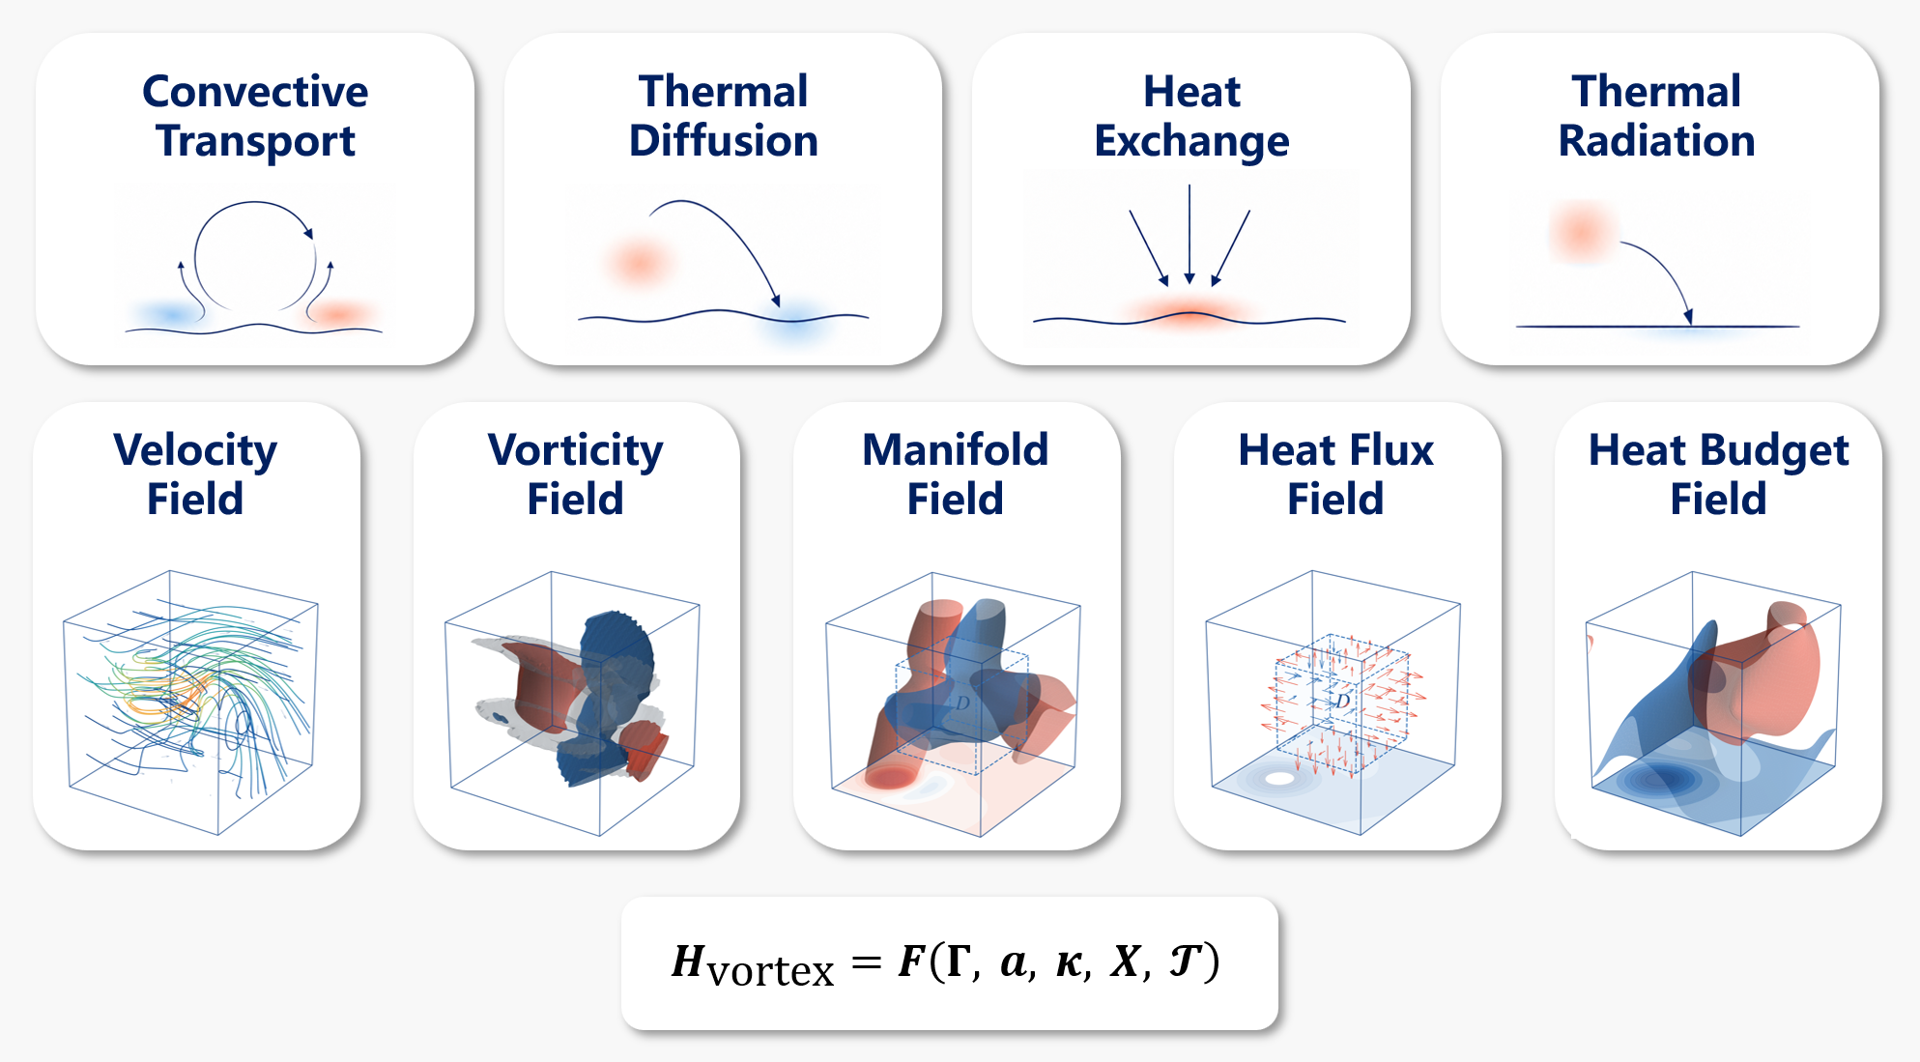
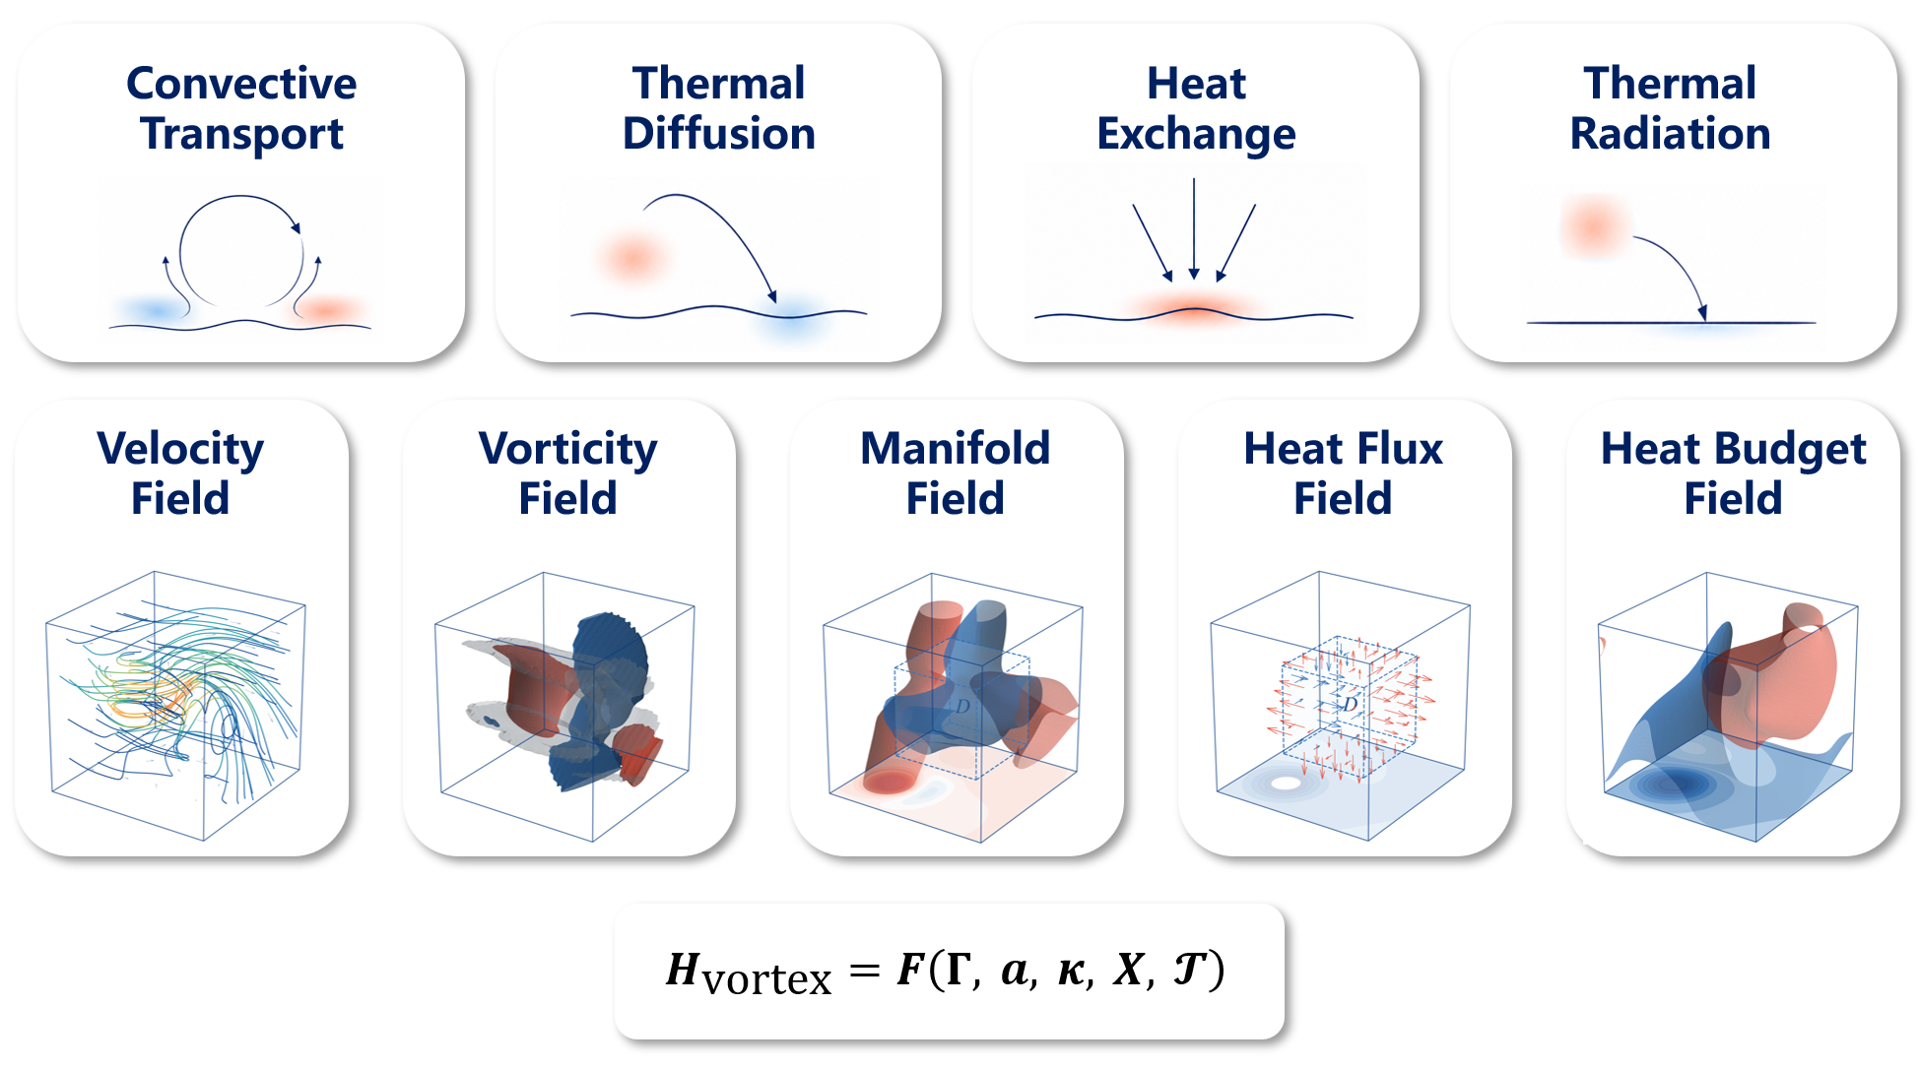
Update NSFC project image

diff --git a/index.html b/index.html
@@ -574,7 +574,7 @@
             <tbody>
               <tr class="project-row">
                 <td class="project-image-cell">
-                  <img src="images/NSFC.png" class="project-image" alt="Fluid vortex evolution and localized cold anomaly project overview">
+                  <img src="images/NSFC.png?v=20260911b" class="project-image" alt="Fluid vortex evolution and localized cold anomaly project overview">
                 </td>
                 <td class="project-text-cell">
                   <span class="papertitle"><strong>Study on the Climatic Dynamical Mechanisms of Localized Cold Anomalies Based on Fluid Vortex Evolution</strong></span>
